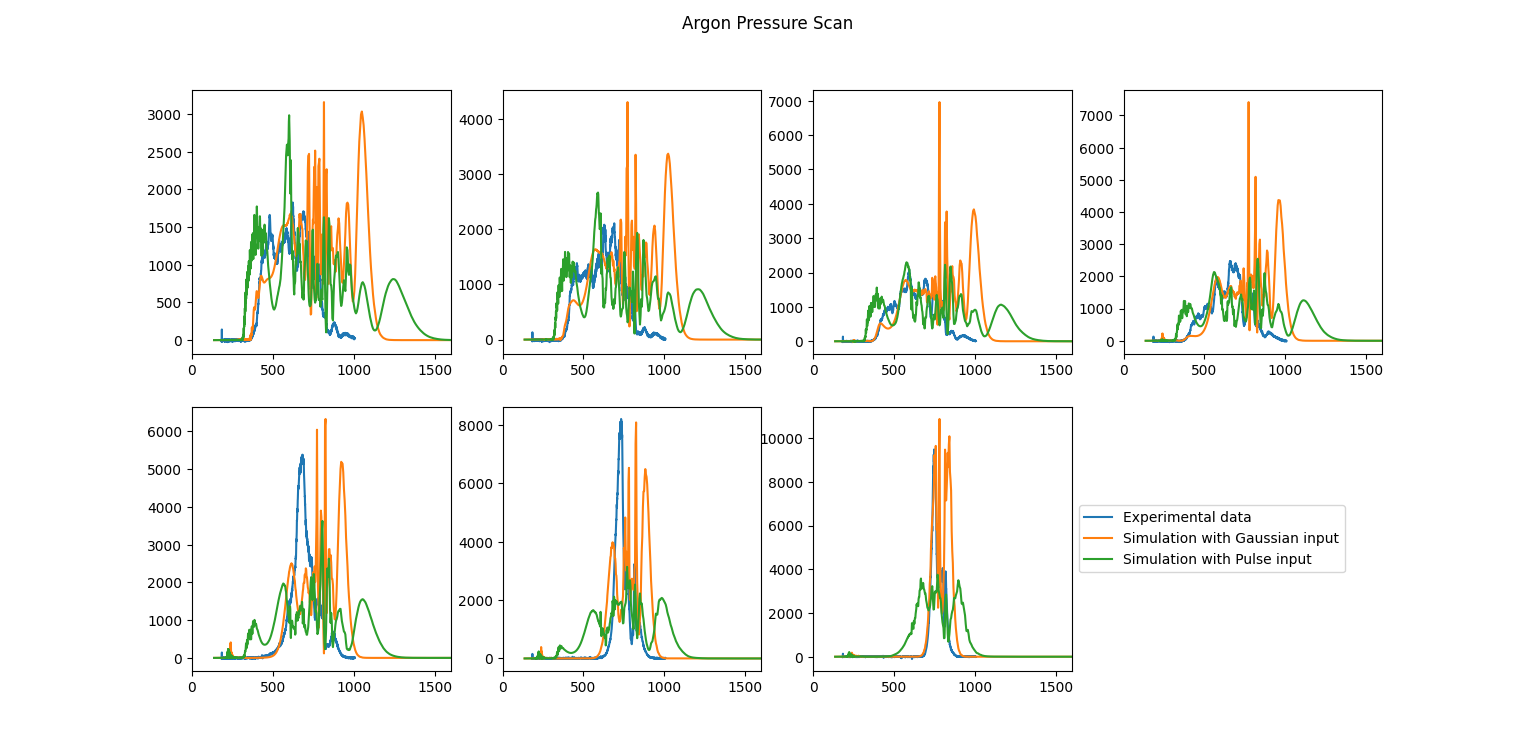
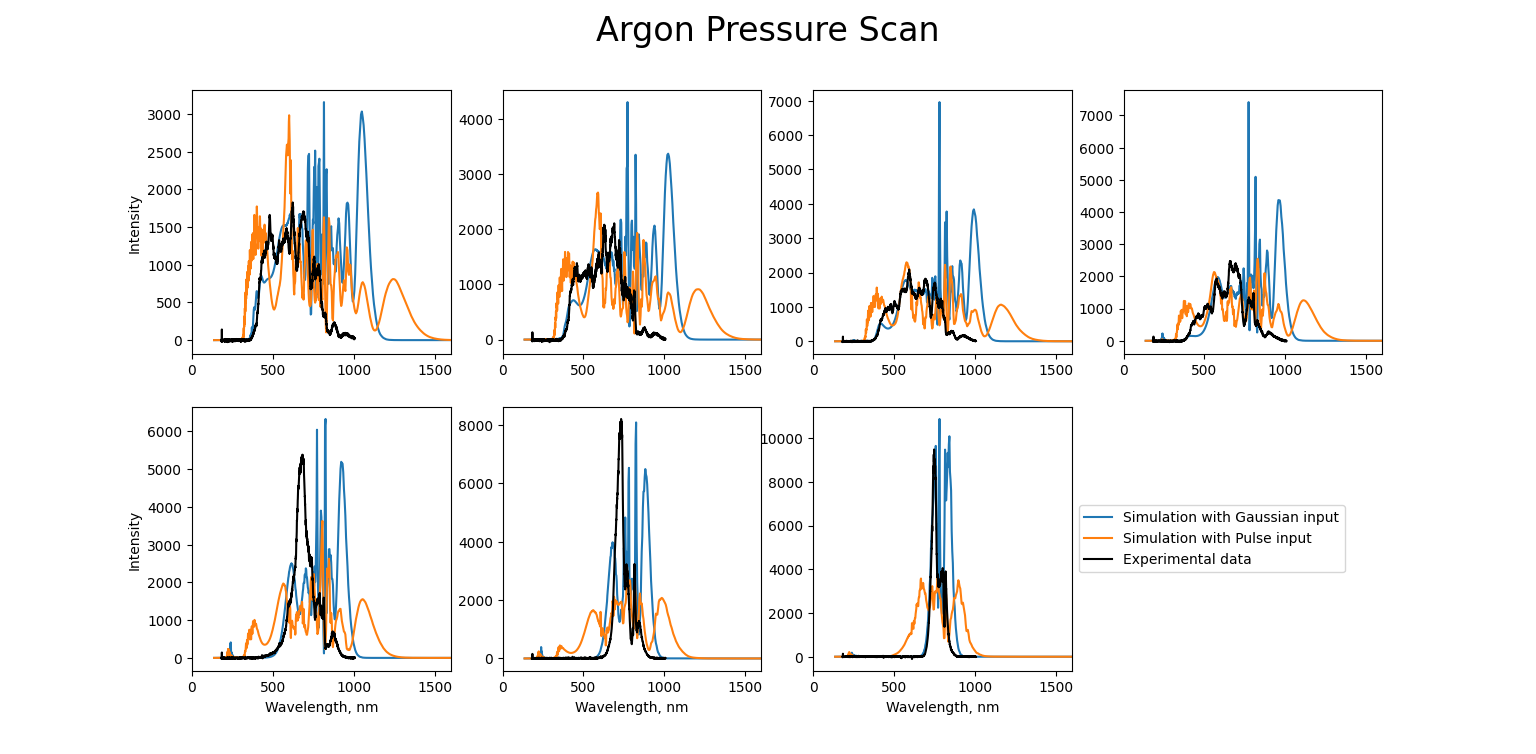
formatted plots

diff --git a/HCF sim/Python/experiments/simulations/compare_outputs_plot.py b/HCF sim/Python/experiments/simulations/compare_outputs_plot.py
@@ -6,179 +6,28 @@ filepath = "C:\\Users\\iammo\\Documents\\Optimising-Field-Synthesiser\\HCF sim\\
 #####################################################################################################################
 # Create plots
 fig_Ar_powers, axs_Ar_powers = plt.subplots(3,4)
-fig_Ar_powers.suptitle('Argon Power Scan')
+fig_Ar_powers.suptitle('Argon Power Scan', size=24)
 plt.setp(axs_Ar_powers, xlim=(0,1500))
+plt.setp(axs_Ar_powers[-1, :], xlabel='Wavelength, nm')
+plt.setp(axs_Ar_powers[:, 0], ylabel='Intensity')
+
 fig_Ne_powers, axs_Ne_powers = plt.subplots(3,4)
-fig_Ne_powers.suptitle('Neon Power Scan')
+fig_Ne_powers.suptitle('Neon Power Scan', size=24)
 plt.setp(axs_Ne_powers, xlim=(0,1400))
+plt.setp(axs_Ne_powers[-1, :], xlabel='Wavelength, nm')
+plt.setp(axs_Ne_powers[:, 0], ylabel='Intensity')
+
 fig_Ar_pressures, axs_Ar_pressures = plt.subplots(2,4)
-fig_Ar_pressures.suptitle('Argon Pressure Scan')
+fig_Ar_pressures.suptitle('Argon Pressure Scan', size=24)
 plt.setp(axs_Ar_pressures, xlim=(0,1600))
+plt.setp(axs_Ar_pressures[-1, :], xlabel='Wavelength, nm')
+plt.setp(axs_Ar_pressures[:, 0], ylabel='Intensity')
+
 fig_Ne_pressures, axs_Ne_pressures = plt.subplots(4,4)
-fig_Ne_pressures.suptitle('Neon Pressure Scan')
+fig_Ne_pressures.suptitle('Neon Pressure Scan', size=24)
 plt.setp(axs_Ne_pressures, xlim=(0,1250))
-
-#####################################################################################################################
-# Read experimental data
-Ar_PowerScan_widths = []
-Ne_PowerScan_widths = []
-Ar_PressureScan_widths = []
-Ne_PressureScan_widths = []
-
-Ar_powers = [1.29, 1.2, 1.1, 1.0, 0.9, 0.8, 0.7, 0.6, 0.5, 0.4, 0.3]
-Ne_powers = [1.24, 1.2, 1.1, 1.0, 0.9, 0.8, 0.7, 0.6, 0.5, 0.4, 0.3]
-Ar_pressures = [1.4, 1.2, 1.0, 0.8, 0.6, 0.4, 0.2]
-Ne_pressures = [3.6, 3.4, 3.2, 3.0, 2.8, 2.6, 2.4, 2.2, 2.0, 1.8, 1.6, 1.4, 1.2, 1.0]
-
-# Argon PowerScan
-lines=[]
-columns=[[],[],[],[],[],[],[],[],[],[],[],[]]
-with open (filepath+'HCF_scans\\Argon_0.8bar_PowerScan\\PowerScan.txt', 'rt') as myfile:  # Open lorem.txt for reading
-    for myline in myfile:
-        lines.append(myline)
-
-data=lines[22:] #gets rid of all the stuff at the top
-for i in data:
-    split=i.split("\t") #delimiter is \t
-    for j ,value in enumerate(split):
-        columns[j].append(float(value))
-
-wavel_nm=columns[0]
-I1_29=columns[1]
-I1_2=columns[2]
-I1_1=columns[3]
-I1_0=columns[4]
-I0_9=columns[5]
-I0_8=columns[6]
-I0_7=columns[7]
-I0_6=columns[8]
-I0_5=columns[9]
-I0_4=columns[10]
-I0_3=columns[11]
-
-# Plot experimental data
-axs_Ar_powers[0,0].plot(wavel_nm, I1_2)
-axs_Ar_powers[0,1].plot(wavel_nm, I1_1)
-axs_Ar_powers[0,2].plot(wavel_nm, I1_0)
-axs_Ar_powers[0,3].plot(wavel_nm, I0_9)
-axs_Ar_powers[1,0].plot(wavel_nm, I0_8)
-axs_Ar_powers[1,1].plot(wavel_nm, I0_7)
-axs_Ar_powers[1,2].plot(wavel_nm, I0_6)
-axs_Ar_powers[1,3].plot(wavel_nm, I0_5)
-axs_Ar_powers[2,0].plot(wavel_nm, I0_4)
-axs_Ar_powers[2,1].plot(wavel_nm, I0_3, label='Experimental data')
-
-
-# Neon PowerScan
-lines=[]
-columns=[[],[],[],[],[],[],[],[],[],[],[],[]]
-with open (filepath+'HCF_scans\\Neon_3bar_PowerScan\\PowerScan.txt', 'rt') as myfile:  # Open lorem.txt for reading
-    for myline in myfile:
-        lines.append(myline)
-
-data=lines[22:] #gets rid of all the stuff at the top
-for i in data:
-    split=i.split("\t") #delimiter is \t
-    for j ,value in enumerate(split):
-        columns[j].append(float(value))
-
-wavel_nm=columns[0]
-I1_24=columns[1]
-I1_1=columns[2]
-I1_0=columns[3]
-I0_9=columns[4]
-I0_8=columns[5]
-I0_7=columns[6]
-I0_6=columns[7]
-I0_5=columns[8]
-I0_4=columns[9]
-I0_3=columns[10]
-I1_2=columns[11]
-
-axs_Ne_powers[0,0].plot(wavel_nm, I1_2)
-axs_Ne_powers[0,1].plot(wavel_nm, I1_1)
-axs_Ne_powers[0,2].plot(wavel_nm, I1_0)
-axs_Ne_powers[0,3].plot(wavel_nm, I0_9)
-axs_Ne_powers[1,0].plot(wavel_nm, I0_8)
-axs_Ne_powers[1,1].plot(wavel_nm, I0_7)
-axs_Ne_powers[1,2].plot(wavel_nm, I0_6)
-axs_Ne_powers[1,3].plot(wavel_nm, I0_5)
-axs_Ne_powers[2,0].plot(wavel_nm, I0_4)
-axs_Ne_powers[2,1].plot(wavel_nm, I0_3, label='Experimental data')
-
-# Argon PressureScan
-lines=[]
-columns=[[],[],[],[],[],[],[],[]]
-with open (filepath+'HCF_scans\\Argon_1.1Win_PressureScan\\PressureScan.txt', 'rt') as myfile:  # Open lorem.txt for reading
-    for myline in myfile:
-        lines.append(myline)
-
-data=lines[22:] #gets rid of all the stuff at the top
-for i in data:
-    split=i.split("\t") #delimiter is \t
-    for j ,value in enumerate(split):
-        columns[j].append(float(value))
-
-wavel_nm=columns[0]
-I0_2=columns[1]
-I0_4=columns[2]
-I0_6=columns[3]
-I0_8=columns[4]
-I1_0=columns[5]
-I1_2=columns[6]
-I1_4=columns[7]
-
-axs_Ar_pressures[0,0].plot(wavel_nm, I1_4)
-axs_Ar_pressures[0,1].plot(wavel_nm, I1_2)
-axs_Ar_pressures[0,2].plot(wavel_nm, I1_0)
-axs_Ar_pressures[0,3].plot(wavel_nm, I0_8)
-axs_Ar_pressures[1,0].plot(wavel_nm, I0_6)
-axs_Ar_pressures[1,1].plot(wavel_nm, I0_4)
-axs_Ar_pressures[1,2].plot(wavel_nm, I0_2, label='Experimental data')
-
-# Neon PressureScan
-lines=[]
-columns=[[],[],[],[],[],[],[],[],[],[],[],[],[],[],[]]
-with open (filepath+'HCF_scans\\Neon_1.1Win_PressureScan\\pressure_scan.txt', 'rt') as myfile:  # Open lorem.txt for reading
-    for myline in myfile:
-        lines.append(myline)
-
-data=lines[22:] #gets rid of all the stuff at the top
-for i in data:
-    split=i.split("\t") #delimiter is \t
-    for j ,value in enumerate(split):
-        columns[j].append(float(value))
-
-wavel_nm=columns[0]
-I3_6=columns[1]
-I3_4=columns[2]
-I3_2=columns[3]
-I3_0=columns[4]
-I2_8=columns[5]
-I2_6=columns[6]
-I2_4=columns[7]
-I2_2=columns[8]
-I2_0=columns[9]
-I1_8=columns[10]
-I1_6=columns[11]
-I1_4=columns[12]
-I1_2=columns[13]
-I1_0=columns[14]
-
-axs_Ne_pressures[0,0].plot(wavel_nm, I3_6)
-axs_Ne_pressures[0,1].plot(wavel_nm, I3_4)
-axs_Ne_pressures[0,2].plot(wavel_nm, I3_2)
-axs_Ne_pressures[0,3].plot(wavel_nm, I3_0)
-axs_Ne_pressures[1,0].plot(wavel_nm, I2_8)
-axs_Ne_pressures[1,1].plot(wavel_nm, I2_6)
-axs_Ne_pressures[1,2].plot(wavel_nm, I2_4)
-axs_Ne_pressures[1,3].plot(wavel_nm, I2_2)
-axs_Ne_pressures[2,0].plot(wavel_nm, I2_0)
-axs_Ne_pressures[2,1].plot(wavel_nm, I1_8)
-axs_Ne_pressures[2,2].plot(wavel_nm, I1_6)
-axs_Ne_pressures[2,3].plot(wavel_nm, I1_4)
-axs_Ne_pressures[3,0].plot(wavel_nm, I1_2)
-axs_Ne_pressures[3,1].plot(wavel_nm, I1_0, label='Experimental data')
+plt.setp(axs_Ne_pressures[-1, :], xlabel='Wavelength, nm')
+plt.setp(axs_Ne_pressures[:, 0], ylabel='Intensity')
 
 #####################################################################################################################
 # Read simulation data
@@ -369,7 +218,169 @@ df = pd.read_csv(filepath+"simulations\\data\\pulse_input\\Ne_PressureScan_3.4")
 axs_Ne_pressures[0,1].plot(df.iloc[:,0], df.iloc[:,1])
 df = pd.read_csv(filepath+"simulations\\data\\pulse_input\\Ne_PressureScan_3.6")
 axs_Ne_pressures[0,0].plot(df.iloc[:,0], df.iloc[:,1])
-#####################################################################################################################4
+#####################################################################################################################
+# Read experimental data
+Ar_PowerScan_widths = []
+Ne_PowerScan_widths = []
+Ar_PressureScan_widths = []
+Ne_PressureScan_widths = []
+
+Ar_powers = [1.29, 1.2, 1.1, 1.0, 0.9, 0.8, 0.7, 0.6, 0.5, 0.4, 0.3]
+Ne_powers = [1.24, 1.2, 1.1, 1.0, 0.9, 0.8, 0.7, 0.6, 0.5, 0.4, 0.3]
+Ar_pressures = [1.4, 1.2, 1.0, 0.8, 0.6, 0.4, 0.2]
+Ne_pressures = [3.6, 3.4, 3.2, 3.0, 2.8, 2.6, 2.4, 2.2, 2.0, 1.8, 1.6, 1.4, 1.2, 1.0]
+
+# Argon PowerScan
+lines=[]
+columns=[[],[],[],[],[],[],[],[],[],[],[],[]]
+with open (filepath+'HCF_scans\\Argon_0.8bar_PowerScan\\PowerScan.txt', 'rt') as myfile:  # Open lorem.txt for reading
+    for myline in myfile:
+        lines.append(myline)
+
+data=lines[22:] #gets rid of all the stuff at the top
+for i in data:
+    split=i.split("\t") #delimiter is \t
+    for j ,value in enumerate(split):
+        columns[j].append(float(value))
+
+wavel_nm=columns[0]
+I1_29=columns[1]
+I1_2=columns[2]
+I1_1=columns[3]
+I1_0=columns[4]
+I0_9=columns[5]
+I0_8=columns[6]
+I0_7=columns[7]
+I0_6=columns[8]
+I0_5=columns[9]
+I0_4=columns[10]
+I0_3=columns[11]
+
+# Plot experimental data
+axs_Ar_powers[0,0].plot(wavel_nm, I1_2, color='black')
+axs_Ar_powers[0,1].plot(wavel_nm, I1_1, color='black')
+axs_Ar_powers[0,2].plot(wavel_nm, I1_0, color='black')
+axs_Ar_powers[0,3].plot(wavel_nm, I0_9, color='black')
+axs_Ar_powers[1,0].plot(wavel_nm, I0_8, color='black')
+axs_Ar_powers[1,1].plot(wavel_nm, I0_7, color='black')
+axs_Ar_powers[1,2].plot(wavel_nm, I0_6, color='black')
+axs_Ar_powers[1,3].plot(wavel_nm, I0_5, color='black')
+axs_Ar_powers[2,0].plot(wavel_nm, I0_4, color='black')
+axs_Ar_powers[2,1].plot(wavel_nm, I0_3, color='black', label='Experimental data')
+
+
+# Neon PowerScan
+lines=[]
+columns=[[],[],[],[],[],[],[],[],[],[],[],[]]
+with open (filepath+'HCF_scans\\Neon_3bar_PowerScan\\PowerScan.txt', 'rt') as myfile:  # Open lorem.txt for reading
+    for myline in myfile:
+        lines.append(myline)
+
+data=lines[22:] #gets rid of all the stuff at the top
+for i in data:
+    split=i.split("\t") #delimiter is \t
+    for j ,value in enumerate(split):
+        columns[j].append(float(value))
+
+wavel_nm=columns[0]
+I1_24=columns[1]
+I1_1=columns[2]
+I1_0=columns[3]
+I0_9=columns[4]
+I0_8=columns[5]
+I0_7=columns[6]
+I0_6=columns[7]
+I0_5=columns[8]
+I0_4=columns[9]
+I0_3=columns[10]
+I1_2=columns[11]
+
+axs_Ne_powers[0,0].plot(wavel_nm, I1_2, color='black')
+axs_Ne_powers[0,1].plot(wavel_nm, I1_1, color='black')
+axs_Ne_powers[0,2].plot(wavel_nm, I1_0, color='black')
+axs_Ne_powers[0,3].plot(wavel_nm, I0_9, color='black')
+axs_Ne_powers[1,0].plot(wavel_nm, I0_8, color='black')
+axs_Ne_powers[1,1].plot(wavel_nm, I0_7, color='black')
+axs_Ne_powers[1,2].plot(wavel_nm, I0_6, color='black')
+axs_Ne_powers[1,3].plot(wavel_nm, I0_5, color='black')
+axs_Ne_powers[2,0].plot(wavel_nm, I0_4, color='black')
+axs_Ne_powers[2,1].plot(wavel_nm, I0_3, color='black', label='Experimental data')
+
+# Argon PressureScan
+lines=[]
+columns=[[],[],[],[],[],[],[],[]]
+with open (filepath+'HCF_scans\\Argon_1.1Win_PressureScan\\PressureScan.txt', 'rt') as myfile:  # Open lorem.txt for reading
+    for myline in myfile:
+        lines.append(myline)
+
+data=lines[22:] #gets rid of all the stuff at the top
+for i in data:
+    split=i.split("\t") #delimiter is \t
+    for j ,value in enumerate(split):
+        columns[j].append(float(value))
+
+wavel_nm=columns[0]
+I0_2=columns[1]
+I0_4=columns[2]
+I0_6=columns[3]
+I0_8=columns[4]
+I1_0=columns[5]
+I1_2=columns[6]
+I1_4=columns[7]
+
+axs_Ar_pressures[0,0].plot(wavel_nm, I1_4, color='black')
+axs_Ar_pressures[0,1].plot(wavel_nm, I1_2, color='black')
+axs_Ar_pressures[0,2].plot(wavel_nm, I1_0, color='black')
+axs_Ar_pressures[0,3].plot(wavel_nm, I0_8, color='black')
+axs_Ar_pressures[1,0].plot(wavel_nm, I0_6, color='black')
+axs_Ar_pressures[1,1].plot(wavel_nm, I0_4, color='black')
+axs_Ar_pressures[1,2].plot(wavel_nm, I0_2, color='black', label='Experimental data')
+
+# Neon PressureScan
+lines=[]
+columns=[[],[],[],[],[],[],[],[],[],[],[],[],[],[],[]]
+with open (filepath+'HCF_scans\\Neon_1.1Win_PressureScan\\pressure_scan.txt', 'rt') as myfile:  # Open lorem.txt for reading
+    for myline in myfile:
+        lines.append(myline)
+
+data=lines[22:] #gets rid of all the stuff at the top
+for i in data:
+    split=i.split("\t") #delimiter is \t
+    for j ,value in enumerate(split):
+        columns[j].append(float(value))
+
+wavel_nm=columns[0]
+I3_6=columns[1]
+I3_4=columns[2]
+I3_2=columns[3]
+I3_0=columns[4]
+I2_8=columns[5]
+I2_6=columns[6]
+I2_4=columns[7]
+I2_2=columns[8]
+I2_0=columns[9]
+I1_8=columns[10]
+I1_6=columns[11]
+I1_4=columns[12]
+I1_2=columns[13]
+I1_0=columns[14]
+
+axs_Ne_pressures[0,0].plot(wavel_nm, I3_6, color='black')
+axs_Ne_pressures[0,1].plot(wavel_nm, I3_4, color='black')
+axs_Ne_pressures[0,2].plot(wavel_nm, I3_2, color='black')
+axs_Ne_pressures[0,3].plot(wavel_nm, I3_0, color='black')
+axs_Ne_pressures[1,0].plot(wavel_nm, I2_8, color='black')
+axs_Ne_pressures[1,1].plot(wavel_nm, I2_6, color='black')
+axs_Ne_pressures[1,2].plot(wavel_nm, I2_4, color='black')
+axs_Ne_pressures[1,3].plot(wavel_nm, I2_2, color='black')
+axs_Ne_pressures[2,0].plot(wavel_nm, I2_0, color='black')
+axs_Ne_pressures[2,1].plot(wavel_nm, I1_8, color='black')
+axs_Ne_pressures[2,2].plot(wavel_nm, I1_6, color='black')
+axs_Ne_pressures[2,3].plot(wavel_nm, I1_4, color='black')
+axs_Ne_pressures[3,0].plot(wavel_nm, I1_2, color='black')
+axs_Ne_pressures[3,1].plot(wavel_nm, I1_0, color='black', label='Experimental data')
+#####################################################################################################################
+# Format plots
 fig_Ar_powers.delaxes(axs_Ar_powers[2,2])
 fig_Ar_powers.delaxes(axs_Ar_powers[2,3])
 fig_Ne_powers.delaxes(axs_Ne_powers[2,2])
